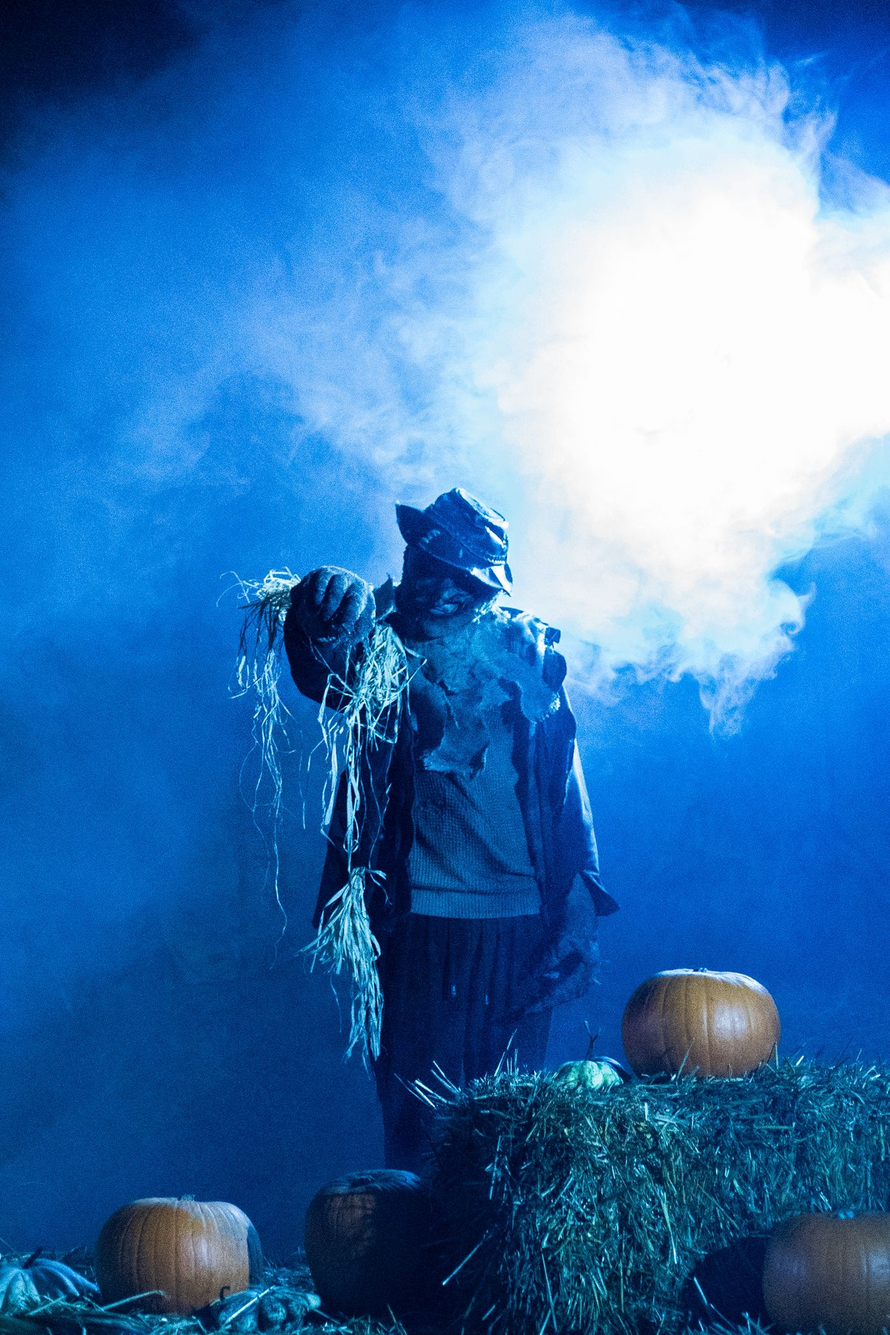
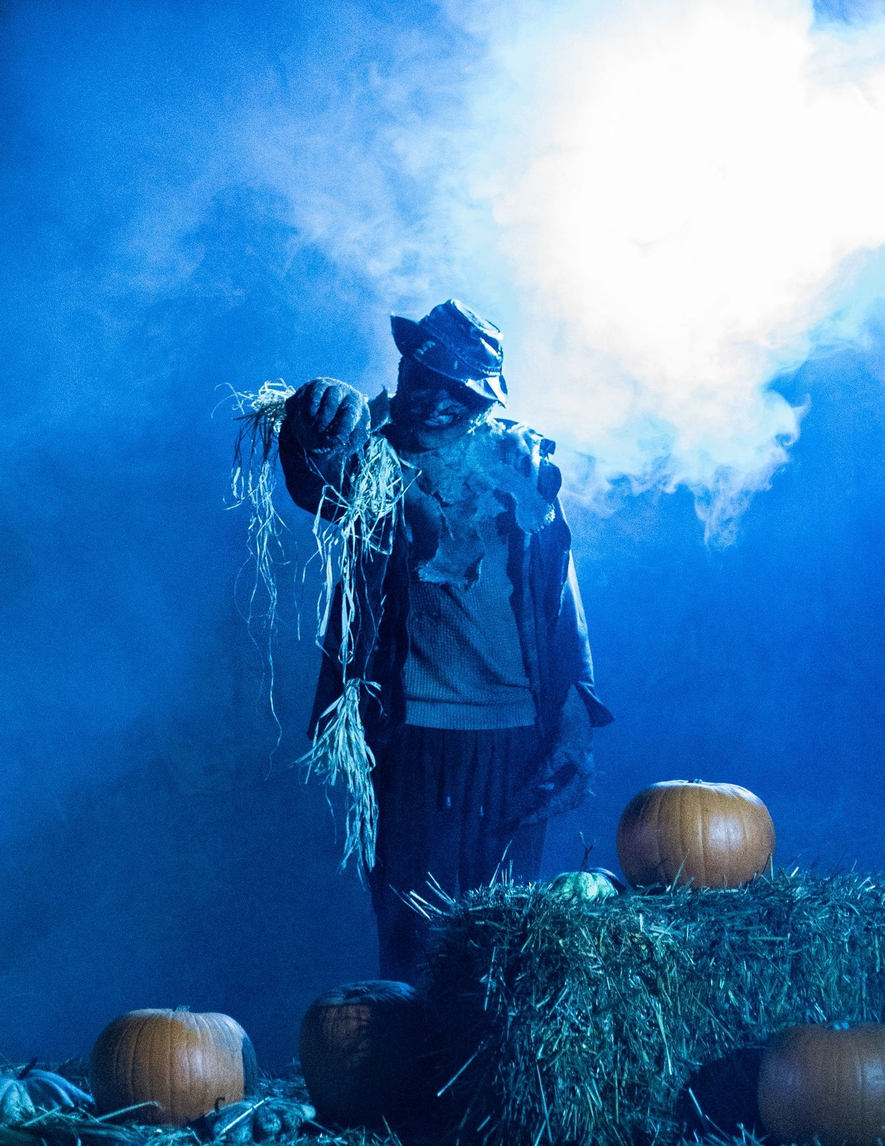
Update thumbnail ond update description

diff --git a/index.html b/index.html
@@ -148,7 +148,7 @@
                         <a 
                             href="img/portfolio/purgatory-town/purgatory-town-01.jpg" 
                             data-lightbox="PurgatoryTown" 
-                            title="In this all-new interactive scare zone of damned souls, I designed and entirely made new costumes for Witch Doctor, Maggot, and Captain Wrecked. I also led the sourcing, distressing, breakdown treatments, and repair workflows across the zone’s ensemble, integrating continuity and contingency adaptations for weather and performance wear." 
+                            title="In this all-new interactive scare zone of damned souls, I designed and made new costumes for Witch Doctor, Maggot, and Captain Wrecked. I also led the sourcing, distressing, breakdown treatments, and repair workflows across the zone’s ensemble, integrating continuity and contingency adaptations for weather and performance wear." 
                             class="img-container"
                         >
                             <div class="grayscale">
